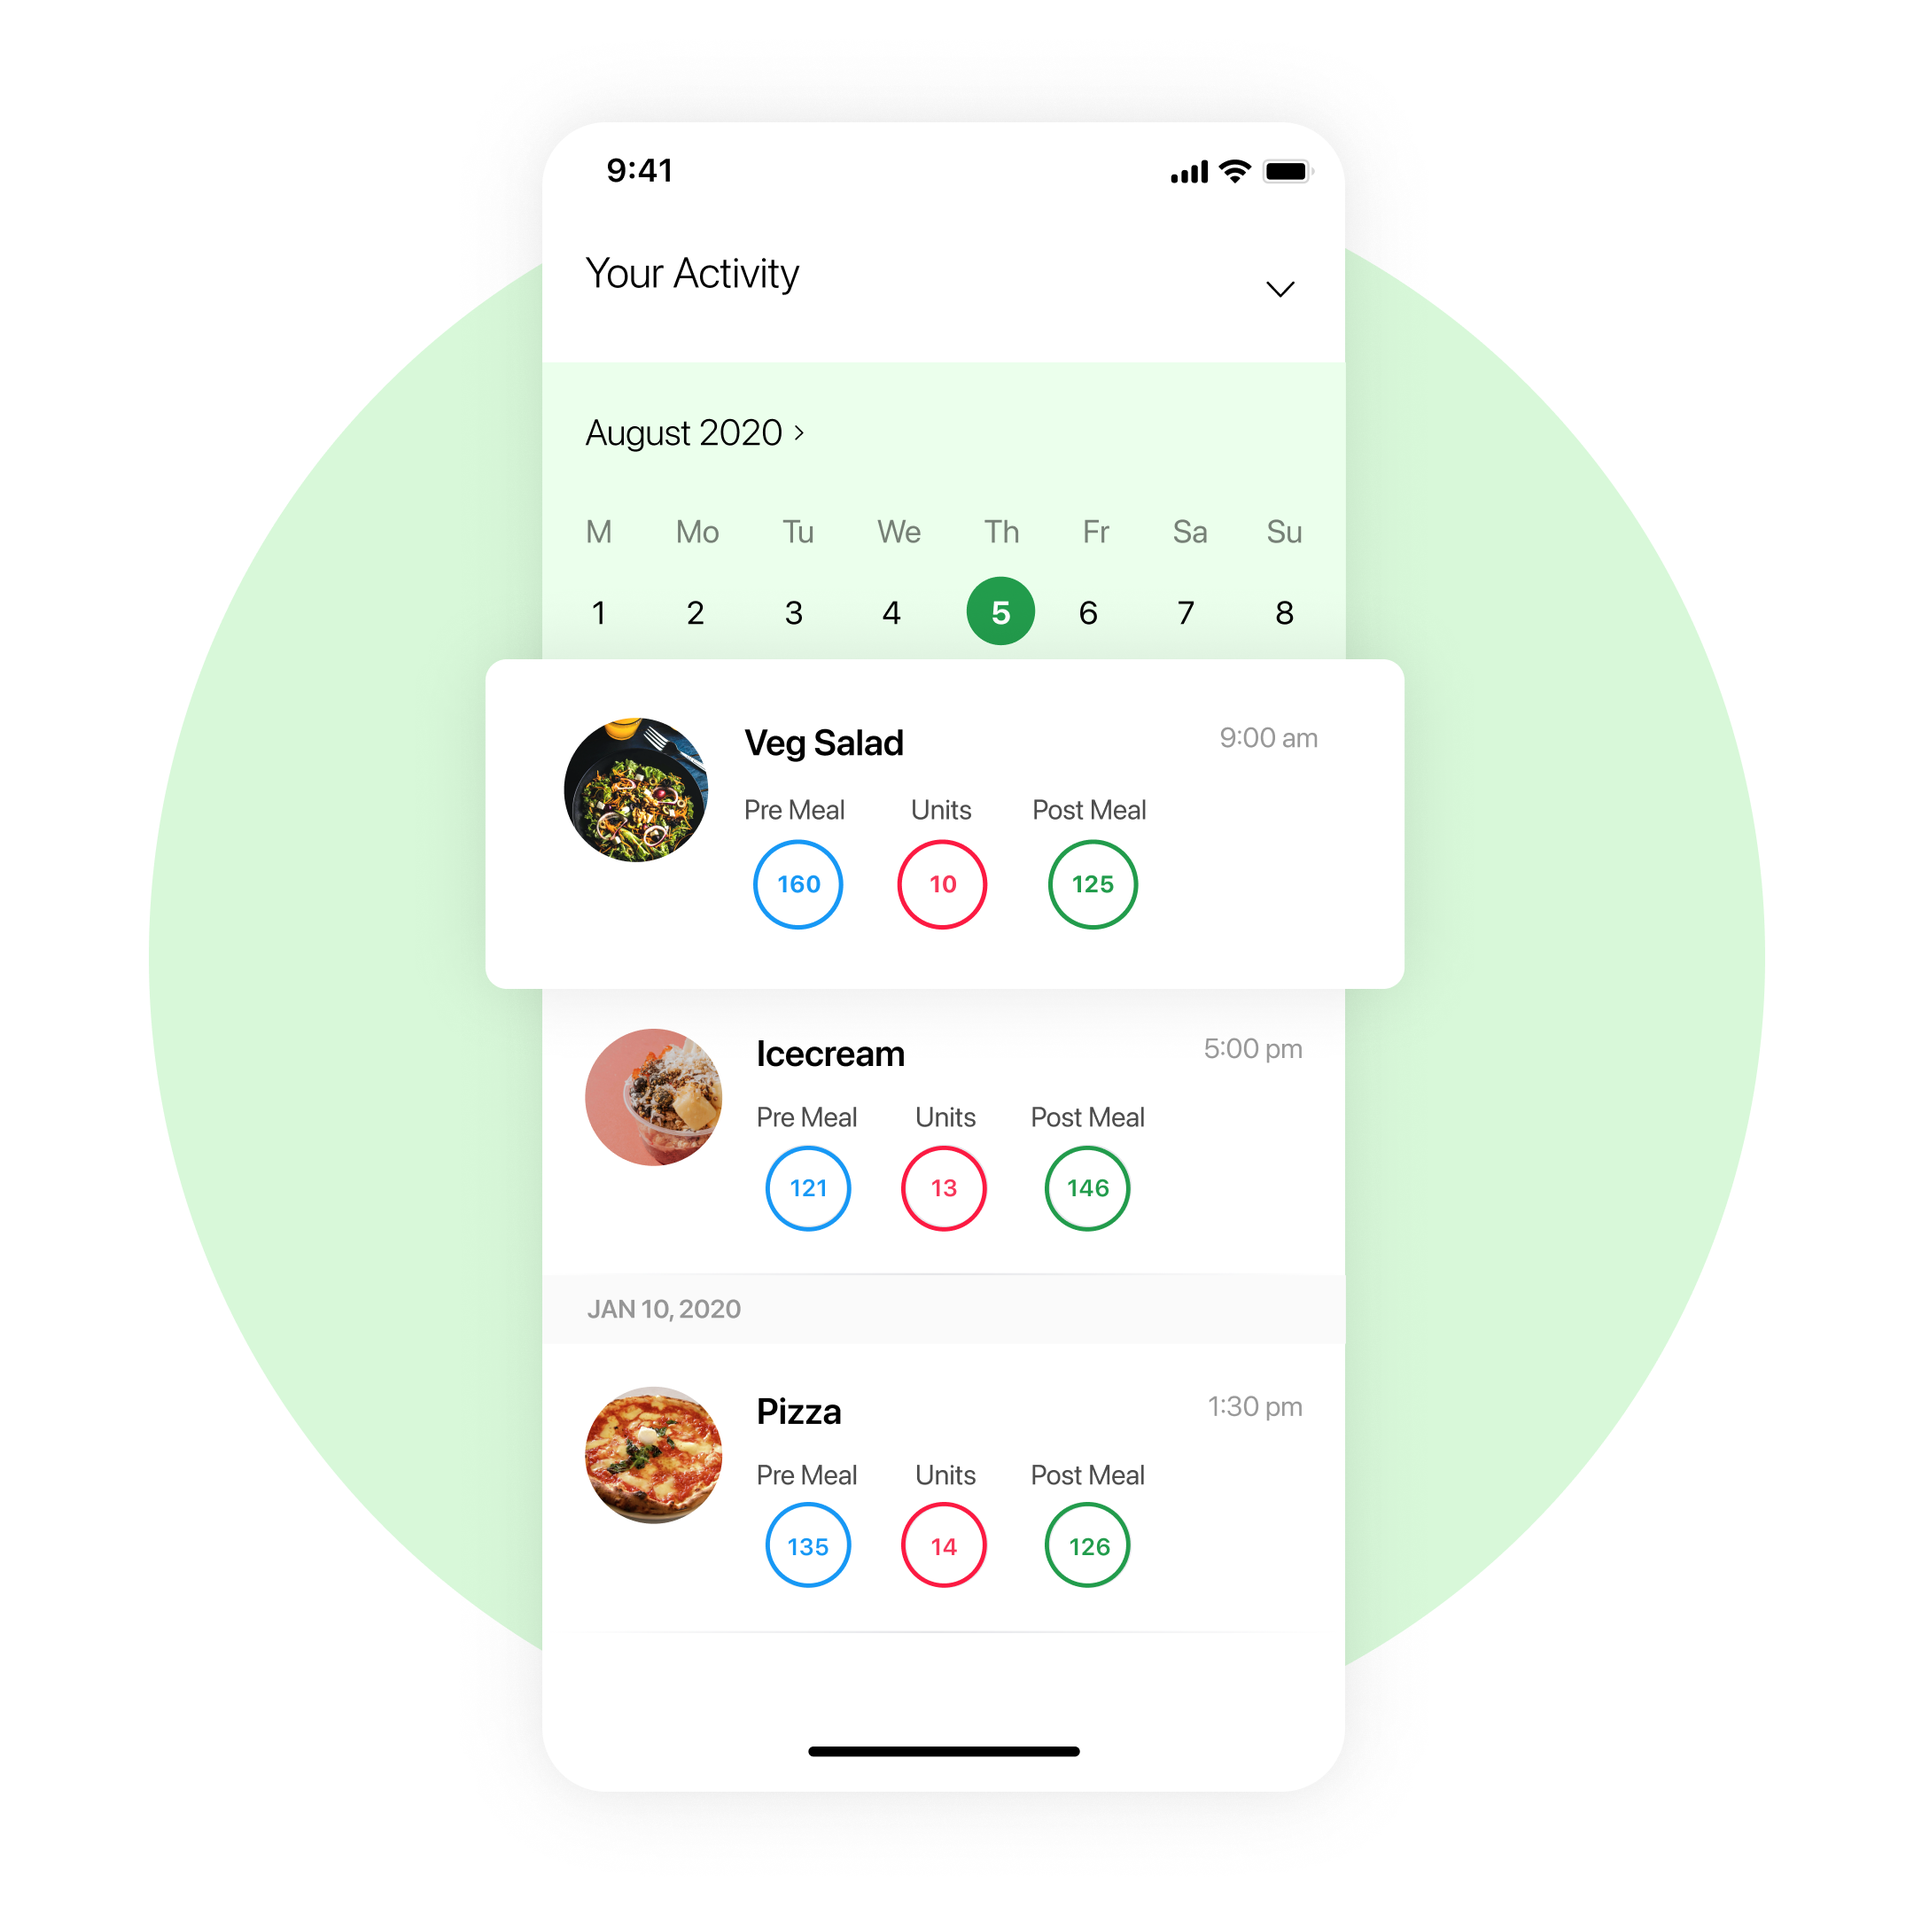
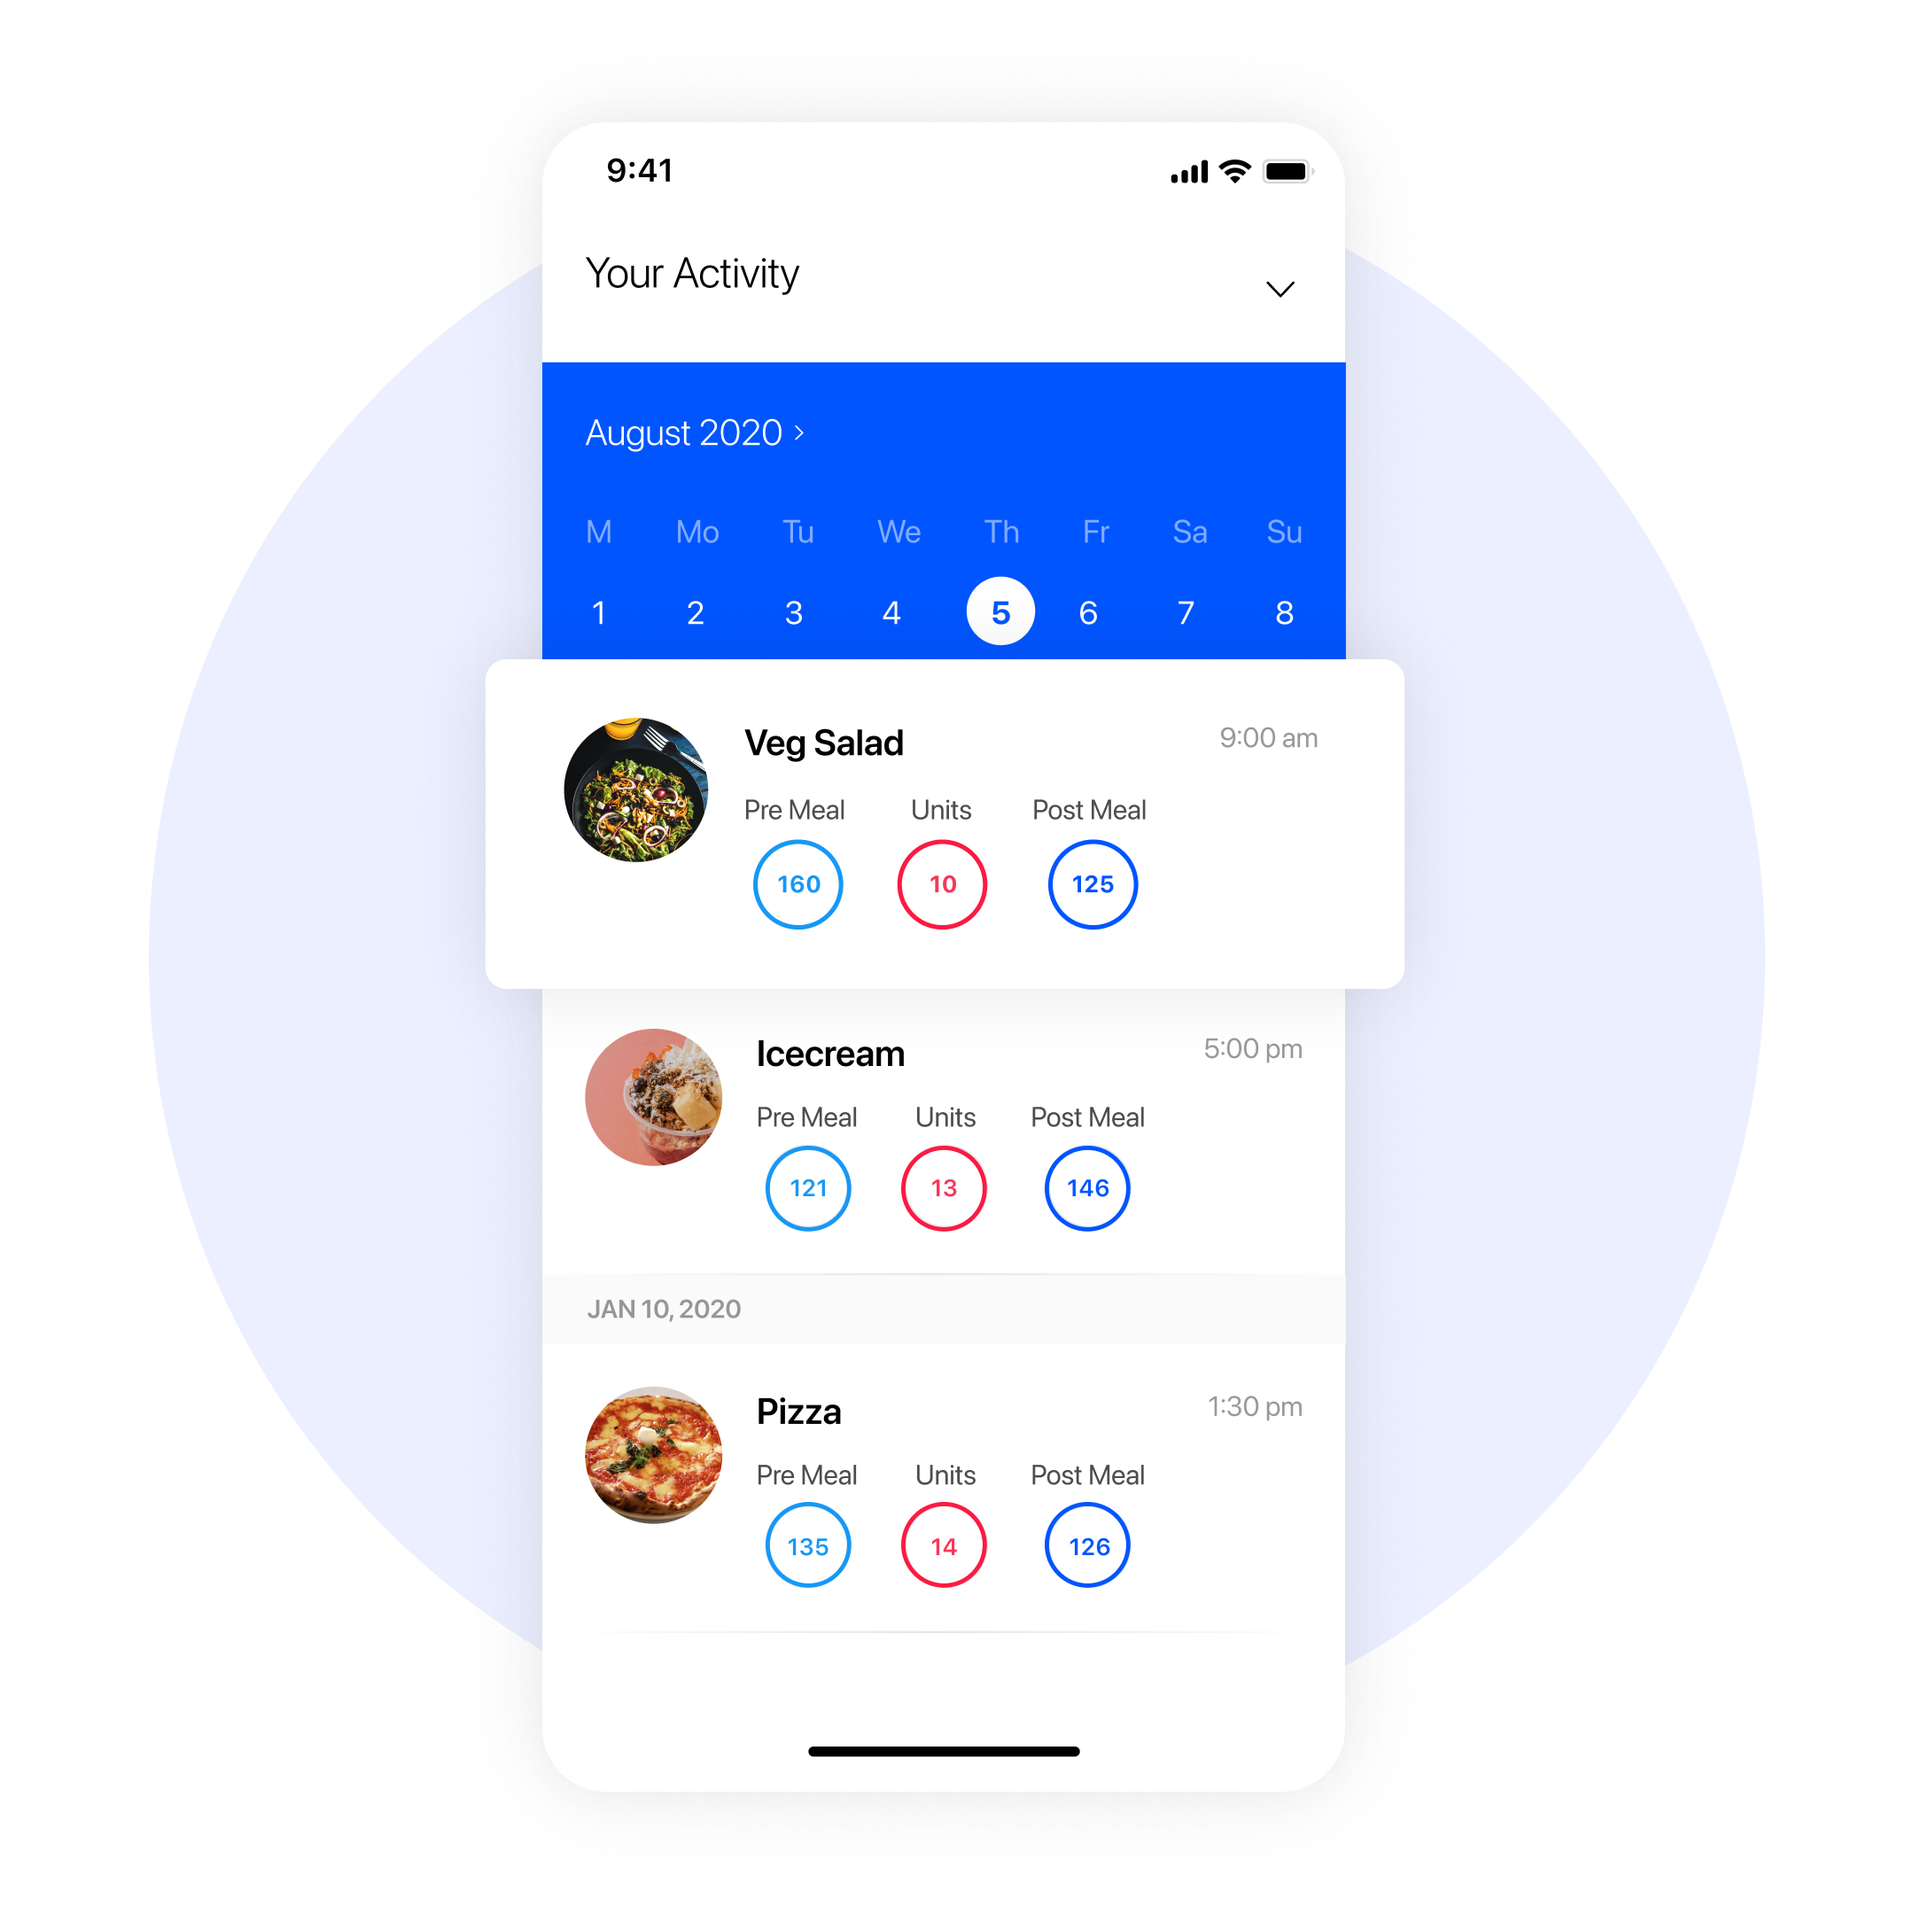
theme change + screenshot change + responsive

diff --git a/src/pages/index.jsx b/src/pages/index.jsx
@@ -2,39 +2,55 @@ import React from "react"
 import styled from "styled-components"
 import Layout from "../components/layout"
 import Image from "../components/Image"
-import HeroTrailer from "../videos/hero.mp4"
 import SEO from "../components/seo"
 import {
   Heading1,
   Heading2,
-  Heading3,
+  Heading4,
   Paragraph,
   Wrapper,
 } from "../styles/base"
-import { isAndroid, isIOS, isMobile } from "react-device-detect"
-import { LogoIcon, ScrollIcon } from "../components/Icons"
+
+import { LogoIcon } from "../components/Icons"
 
 const Hero = styled.section`
-  width: 100vw;
-  height: 100vh;
+  @media screen and (min-width: 1000px) {
+    width: 100vw;
+    height: 100vh;
+    max-height: 840px;
+  }
 `
 
 const HeroWrapper = styled.div`
-  display: grid;
-  grid-template-columns: repeat(2, 1fr);
-  gap: 0;
-  width: 100%;
-  height: 100%;
+  @media screen and (min-width: 960px) {
+    display: flex;
+    gap: 0;
+    width: 100%;
+    height: 100%;
+    max-height: 840px;
+    align-items: center;
+  }
 `
 
 const CopySection = styled.div`
-  width: 100%;
-  height: 100%;
-  padding: 40px 120px;
   display: flex;
   flex-direction: column;
   justify-content: space-between;
   align-items: flex-start;
+  padding: 32px;
+
+  h1 {
+    margin-top: 32px;
+  }
+
+  @media screen and (min-width: 960px) {
+    width: 100%;
+    height: 100%;
+    padding: 40px 120px;
+    h1 {
+      margin-top: 0;
+    }
+  }
 `
 
 const HeroContent = styled.div`
@@ -46,7 +62,13 @@ const HeroContent = styled.div`
 const TeaserSection = styled.div`
   width: 100%;
   height: 100%;
-  background-color: #ebffec;
+  background-color: #f2f5ff;
+  .hero-image {
+    width: 100%;
+    height: 100%;
+    object-position: center;
+    object-fit: scale-down;
+  }
 `
 
 const Highlight = styled.span`
@@ -62,7 +84,7 @@ const ExternalLink = styled.a``
 const Feature = styled.section`
   padding: 48px 24px;
   background-color: ${({ theme, alternateBackground }) =>
-    alternateBackground ? "#F4FFF4" : theme.backgroundColor};
+    alternateBackground ? "#fafafa" : theme.backgroundColor};
   @media screen and (min-width: 960px) {
     padding: 64px 32px;
   }
@@ -95,6 +117,22 @@ const FeatureTeaser = styled.div`
   }
 `
 
+const Banner = styled.section`
+  padding: 40px 24px;
+`
+
+const BannerWrapper = styled(Wrapper)`
+  text-align: center;
+  display: flex;
+  flex-direction: column;
+  align-items: center;
+  justify-content: center;
+
+  h4 {
+    margin-bottom: 24px;
+  }
+`
+
 const IndexPage = () => (
   <Layout>
     <SEO title="Home" />
@@ -112,26 +150,16 @@ const IndexPage = () => (
             </Heading1>
             <Paragraph>Accurate insulin doses with a snapshot.</Paragraph>
             <StoreButtons>
-              {isMobile && isIOS && (
-                <ExternalLink href="/">
-                  <Image className="store-cta" src="appstore.png" />
-                </ExternalLink>
-              )}
-
-              {!isMobile && (
-                <>
-                  <ExternalLink href="/">
-                    <Image className="store-cta" src="appstore.png" />
-                  </ExternalLink>
-                </>
-              )}
+              <ExternalLink href="/">
+                <Image className="store-cta" src="appstore.png" />
+              </ExternalLink>
             </StoreButtons>
           </HeroContent>
-          <ScrollIcon />
+          <div></div>
         </CopySection>
 
         <TeaserSection>
-          <Image src="hero.png" />
+          <Image src="hero.png" className="hero-image" />
         </TeaserSection>
       </HeroWrapper>
     </Hero>
@@ -223,6 +251,17 @@ const IndexPage = () => (
         </FeatureTeaser>
       </FeatureWrapper>
     </Feature>
+
+    <Banner>
+      <BannerWrapper>
+        <Heading4>Start Using Type 1</Heading4>
+        <StoreButtons>
+          <ExternalLink href="/">
+            <Image className="store-cta" src="appstore.png" />
+          </ExternalLink>
+        </StoreButtons>
+      </BannerWrapper>
+    </Banner>
   </Layout>
 )
 

diff --git a/src/components/Icons.jsx b/src/components/Icons.jsx
@@ -338,7 +338,7 @@ export const LogoIcon = () => {
         fill-rule="evenodd"
         clip-rule="evenodd"
         d="M12.2164 2.27869C12.9407 1.94805 13.7394 1.81404 14.532 1.89016C16.2046 2.0182 17.7938 2.67264 19.0715 3.75961C20.3493 4.84659 21.25 6.31027 21.6445 7.94076C22.3122 10.3736 22.3582 12.9962 22.4025 15.5269L22.4025 15.5271C22.4084 15.8631 22.4143 16.1976 22.4216 16.5297C22.4747 18.9818 22.4795 21.4338 22.4842 23.8707C22.4854 24.5227 22.4867 25.1736 22.4889 25.8231C22.4889 26.8314 22.5032 27.8425 22.5176 28.8549L22.5176 28.8551V28.8551C22.5536 31.39 22.5896 33.9321 22.4008 36.4531C22.3594 37.0644 23.2452 37.0126 23.6596 36.9711C24.0741 36.9297 25.3432 36.6085 25.3899 36.0283C25.5778 33.4727 25.5466 30.8955 25.5154 28.3252C25.5062 27.5663 25.497 26.808 25.4935 26.0511C25.4892 25.1402 25.4873 24.2179 25.4853 23.2891C25.4802 20.8321 25.475 18.3289 25.4261 15.8666C25.4185 15.4881 25.4131 15.1055 25.4076 14.7201V14.7199C25.3691 11.9826 25.3286 9.10312 24.4522 6.54208C24.0629 5.37393 23.4318 4.30097 22.5999 3.39319C21.768 2.48542 20.754 1.76323 19.6242 1.27372C18.2734 0.703681 16.8212 0.412578 15.355 0.417919C13.8889 0.42326 12.4389 0.724935 11.0922 1.3048C10.7503 1.44985 9.84897 1.87982 10.253 2.34086C10.6571 2.80191 11.8071 2.46519 12.2164 2.28906V2.27869ZM18.5208 37.9502C17.7427 38.2736 16.9012 38.4153 16.0601 38.3647C15.0888 38.3118 14.137 38.0708 13.2576 37.655C12.2479 37.162 11.3589 36.4531 10.6534 35.5786C9.94804 34.704 9.4435 33.685 9.17553 32.5938C8.5038 30.1461 8.46136 27.5146 8.42035 24.9713L8.42034 24.9711C8.41518 24.6509 8.41004 24.3321 8.40367 24.0152C8.35534 21.599 8.35084 19.1828 8.34636 16.7812V16.7809C8.34634 16.7697 8.34632 16.7585 8.3463 16.7473H10.2271C10.9729 16.7658 11.7082 16.5698 12.3459 16.1826C12.4857 16.0894 12.7499 15.9132 12.6929 15.7164C12.636 15.5195 12.3044 15.4833 12.1749 15.4833H8.34368C8.34306 15.2292 8.34235 14.9754 8.34149 14.7218C8.34149 13.7453 8.32868 12.7664 8.31585 11.7867V11.7867V11.7867C8.28255 9.24251 8.24918 6.69262 8.43992 4.16434C8.54352 2.70349 5.5027 3.18007 5.40946 4.43371C5.21945 6.98302 5.25328 9.56863 5.28674 12.1258V12.1259C5.29707 12.9151 5.30736 13.7016 5.31103 14.4835C5.31259 14.8152 5.31383 15.1486 5.31488 15.4833H3.36841C2.62033 15.4647 1.88281 15.6626 1.24449 16.0531C1.24091 16.0556 1.23725 16.0581 1.23351 16.0607C1.09601 16.1557 0.847112 16.3277 0.902584 16.5193C0.959567 16.7162 1.29111 16.7473 1.42061 16.7473H5.31817C5.31845 16.873 5.31872 16.9989 5.319 17.1249V17.125C5.32448 19.6193 5.33007 22.1662 5.38355 24.6679C5.39141 25.0265 5.39743 25.3888 5.4035 25.7537C5.44943 28.5146 5.49785 31.4252 6.36263 34.0287C6.75678 35.2203 7.39337 36.3174 8.23231 37.2508C9.07126 38.1843 10.0944 38.9339 11.2373 39.4525C12.5783 40.0688 14.0336 40.3973 15.5093 40.4169C16.985 40.4365 18.4485 40.1468 19.8055 39.5665C20.3235 39.3541 20.9814 38.691 20.5411 38.1212C20.1008 37.5513 19.0906 37.7119 18.5208 37.9502Z"
-        fill="black"
+        fill="#0055ff"
       />
     </svg>
   )

diff --git a/src/components/Footer.jsx b/src/components/Footer.jsx
@@ -6,6 +6,7 @@ import { MoonIcon, SunIcon } from "./Icons"
 
 const FooterView = styled.footer`
   padding: 24px;
+  background-color: #fafafa;
 `
 
 const FooterWrapper = styled(Wrapper)`
@@ -20,7 +21,7 @@ const Copyright = styled.div`
 
 const FooterLinks = styled.div`
   display: grid;
-  grid-template-columns: repeat(3, auto);
+  grid-template-columns: repeat(2, auto);
   gap: 48px;
 `
 
@@ -32,14 +33,6 @@ const FooterLink = styled(Link)`
   }
   &:hover {
     opacity: 1;
-  }
-`
-
-const ThemeToggler = styled.div`
-  color: ${({ theme }) => theme.foregroundColor};
-  cursor: pointer;
-  svg {
-    transform: scale(1.2);
   }
 `
 

diff --git a/src/components/layout.js b/src/components/layout.js
@@ -18,14 +18,14 @@ const lightTheme = {
   foregroundColor: "#000",
   backgroundColor: "#fff",
   secondaryBackgroundColor: "#fafafa",
-  accentColor: "#229C4C",
+  accentColor: "#0055ff",
 }
 
 const darkTheme = {
   foregroundColor: "#fff",
   backgroundColor: "#000",
   secondaryBackgroundColor: "#101010",
-  accentColor: "#229C4C",
+  accentColor: "#0055ff",
 }
 
 const Layout = ({ children }) => {

diff --git a/src/styles/base.jsx b/src/styles/base.jsx
@@ -1,7 +1,7 @@
 import styled from "styled-components"
 
 export const Wrapper = styled.div`
-  max-width: 80vw;
+  max-width: 1120px;
   margin: 0 auto;
 `
 
